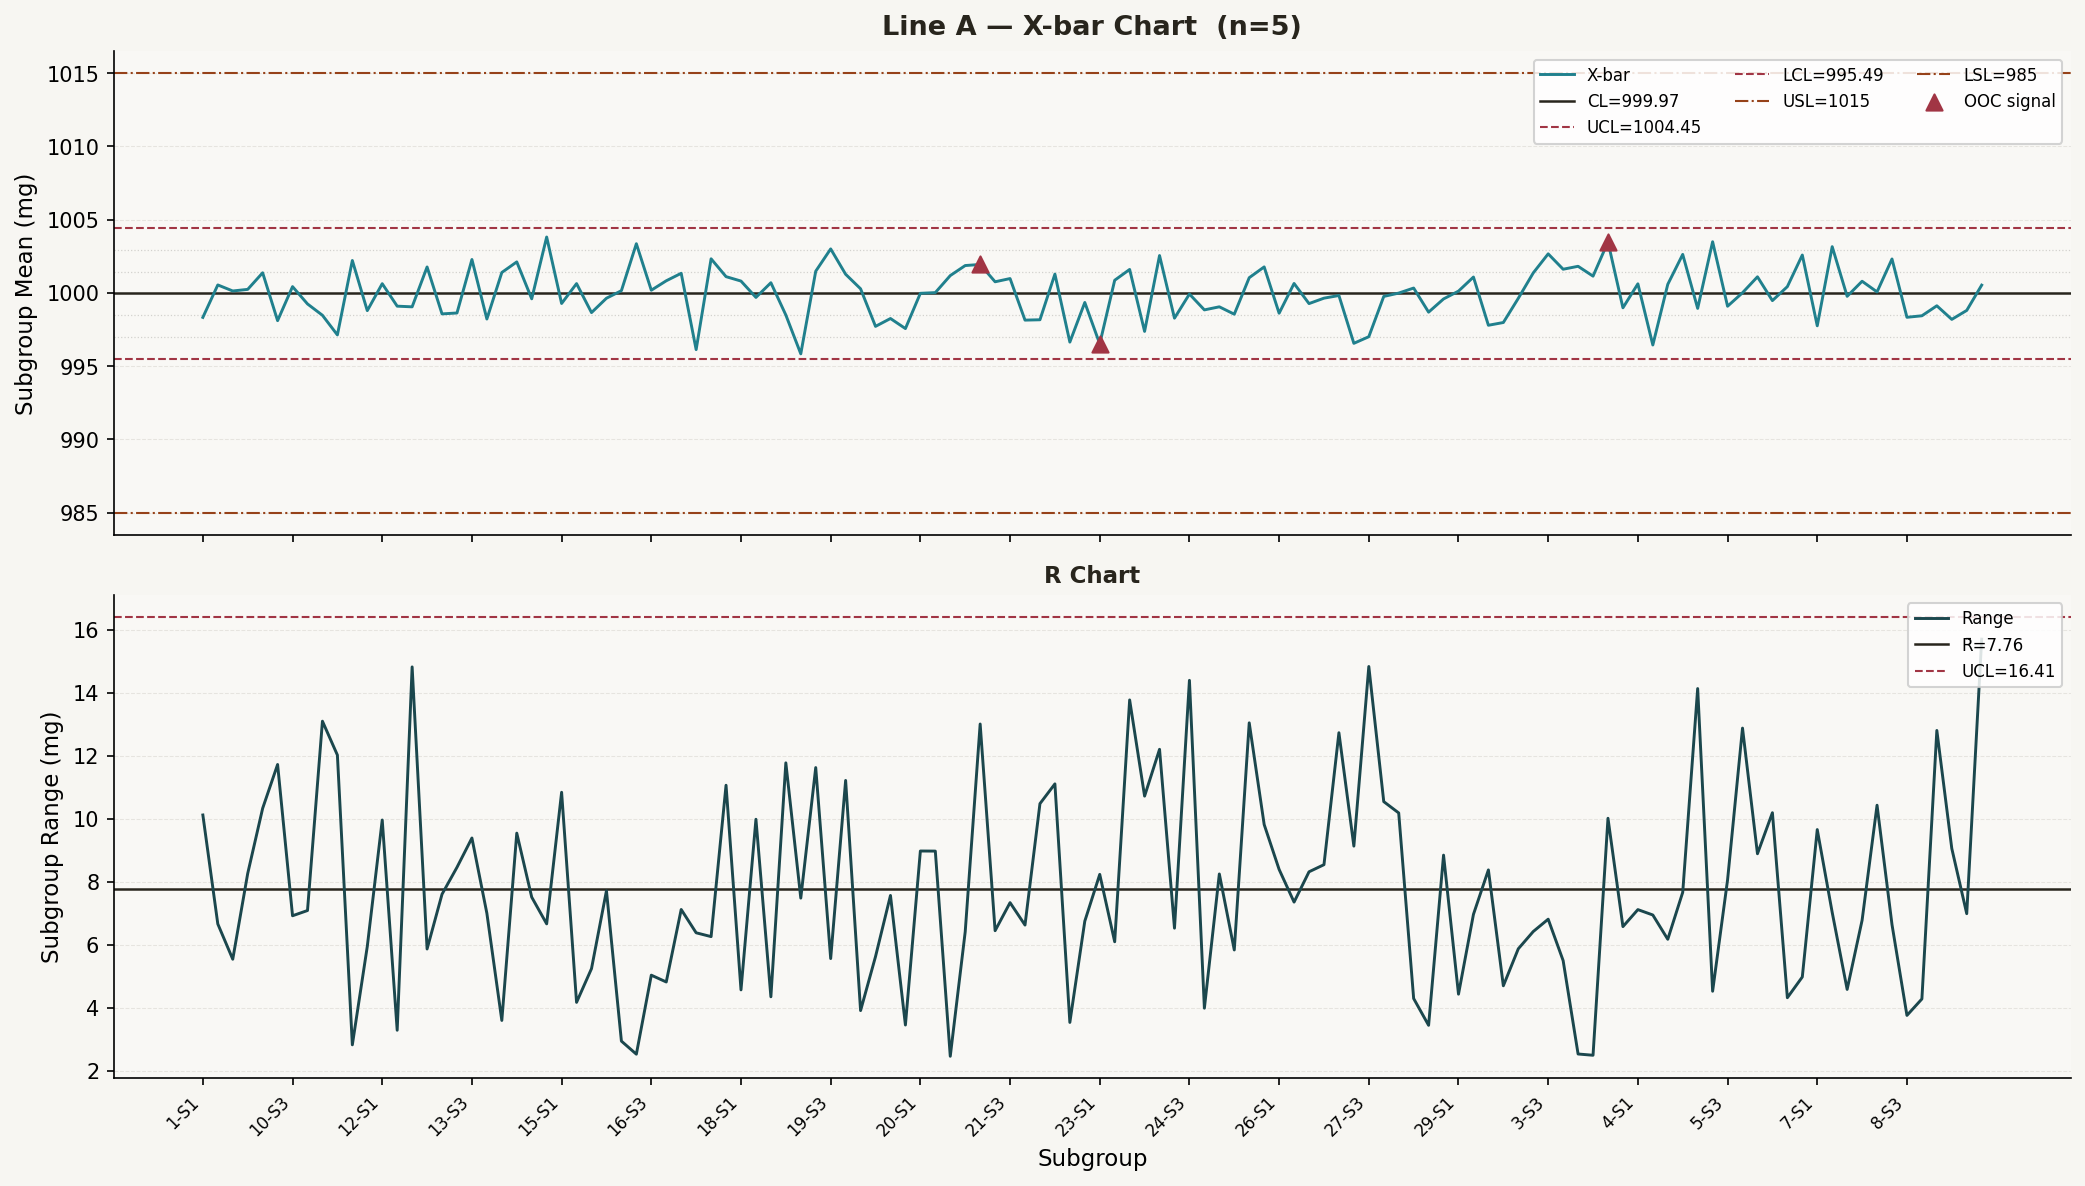
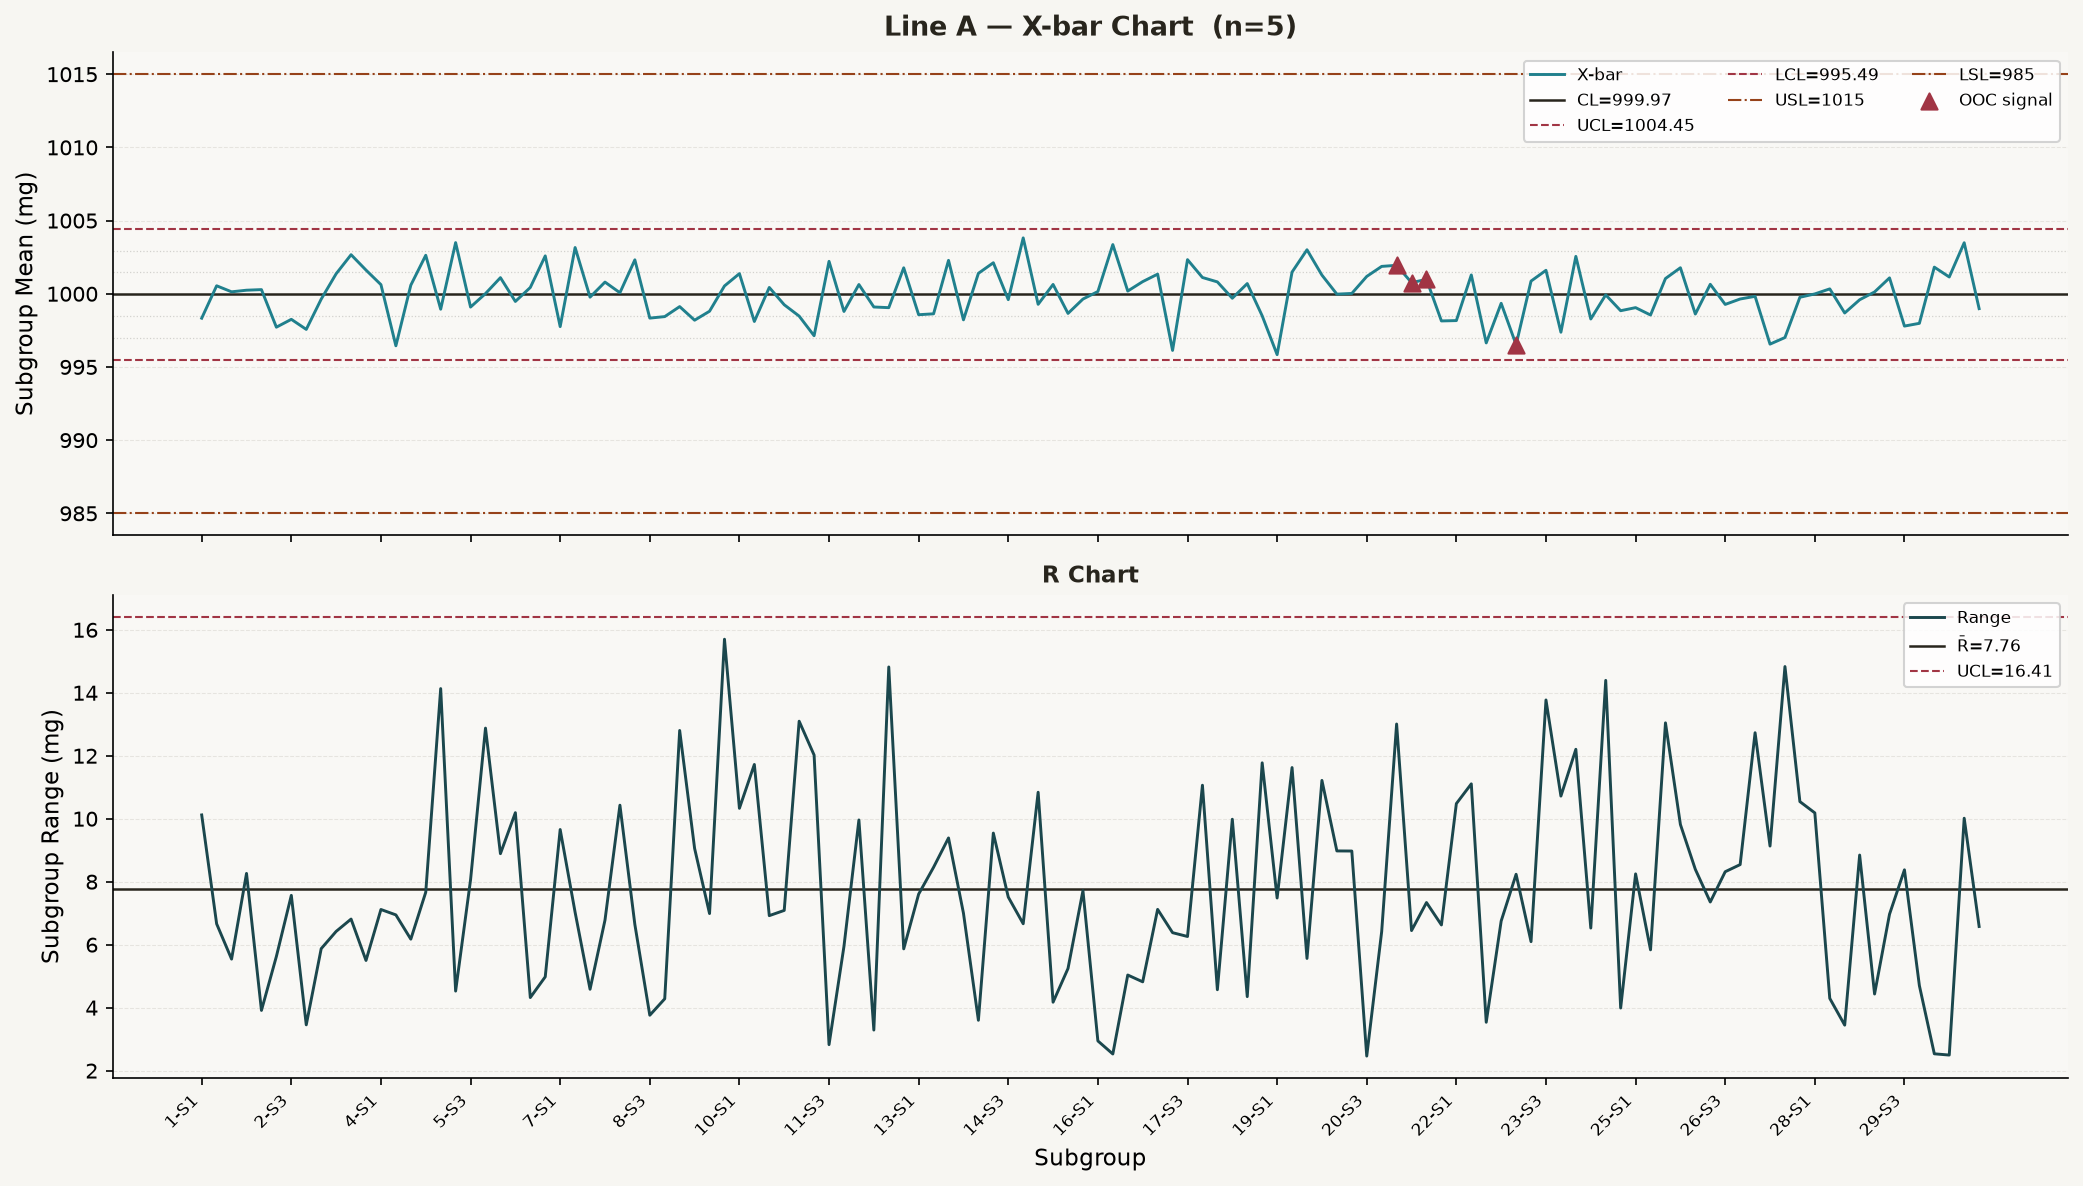
Fix SPC time ordering and run-pattern detection (#2)

diff --git a/src/report.py b/src/report.py
@@ -240,6 +240,13 @@ def write_text_report(
     oos_rate = df["out_of_spec"].mean()
     n_oos = df["out_of_spec"].sum()
     n_total = len(df)
+    defect_counts = df.loc[df["out_of_spec"], "defect_cause"].value_counts()
+    if defect_counts.empty:
+        pareto_note = "No classified out-of-spec observations are available for Pareto review."
+    else:
+        count = int(defect_counts.max())
+        leaders = ", ".join(defect_counts[defect_counts == count].index)
+        pareto_note = f"Review the most frequent assigned defect causes: {leaders} ({count} of {n_oos} each)."
 
     lines_text = []
     for line_name, row in cap_by_line.iterrows():
@@ -289,14 +296,14 @@ def write_text_report(
 
       Interpretation:
         Cp  ≥ 1.33  → Good potential capability         : {'✓ PASS' if cap_overall.cp >= 1.33 else '✗ FAIL'}
-        Cpk ≥ 1.33  → Process centered and capable      : {'✓ PASS' if cap_overall.cpk >= 1.33 else '✗ FAIL'}
-        Ppk ≥ 1.33  → Long-term performance adequate     : {'✓ PASS' if cap_overall.ppk >= 1.33 else '✗ FAIL'}
+        Cpk ≥ 1.33  → Short-term index threshold       : {'✓ PASS' if cap_overall.cpk >= 1.33 else '✗ FAIL'}
+        Ppk ≥ 1.33  → Long-term index threshold        : {'✓ PASS' if cap_overall.ppk >= 1.33 else '✗ FAIL'}
 
     ─────────────────────────── CAPABILITY BY LINE ───────────────────────────────
 {chr(10).join(lines_text)}
 
     ─────────────────────────── OUT-OF-CONTROL SIGNALS ─────────────────────────
-    Western Electric rules applied to X-bar chart (all lines combined):
+    Rules applied to X-bar chart (all lines combined, in production order):
 """)
 
     total_violations = 0
@@ -307,19 +314,19 @@ def write_text_report(
 
     report_text += f"\n    Total out-of-control signals detected : {total_violations}\n"
 
-    report_text += textwrap.dedent("""
+    report_text += textwrap.dedent(f"""
     ─────────────────────────── CORRECTIVE ACTIONS ───────────────────────────────
-    Quality Event (Line B, Days 18-23):
-      Root cause   : Progressive mean shift (+8 mg) with increased variability
-      Likely cause : Tobacco blend variation / hopper feed rate inconsistency
-      Action taken : Hopper recalibration, blend adjustment (Day 23)
-      Result       : Process returned to control by Day 24
+    Simulated event (Line B, Days 18-23):
+      Days 18–22   : The generator increases the mean by up to 8 mg and increases spread.
+      Day 23       : The generator models partial recovery.
+      Day 24 onward: The generator restores the original process parameters.
+      Full-period capability indices include this unstable interval.
 
     ─────────────────────────── RECOMMENDED ACTIONS ──────────────────────────────
     1. Continue X-bar & R monitoring on 5-sample subgroups each shift
-    2. Investigate Hopper Feed Rate (30% of defects — top Pareto cause)
+    2. {pareto_note}
     3. Implement SPC alert automation to trigger immediate corrective action
-    4. Target Cpk ≥ 1.67 (Six Sigma level) through process centering
+    4. Evaluate capability for a stable period on each line before drawing conclusions.
     5. Review D3/D4 constants if subgroup size changes
 
     ─────────────────────────── CHART INVENTORY ──────────────────────────────────
@@ -358,6 +365,7 @@ def main(regen: bool = False):
         print("[report] Generating factory data...")
         df = generate_data(save=True)
 
+    df = df.sort_values(["day", "shift", "machine_line", "sample_id"])
     print(f"[report] {len(df)} observations loaded. Lines: {df['machine_line'].unique().tolist()}")
 
     # 2. Process capability — all lines
@@ -380,7 +388,7 @@ def main(regen: bool = False):
         overall_chart.xbar, overall_chart.xbar_cl,
         overall_chart.xbar_ucl, overall_chart.xbar_lcl,
     )
-    viol_df = violations_to_dataframe(violations_summary)
+    viol_df = violations_to_dataframe(violations_summary, overall_chart.subgroup_labels)
     if not viol_df.empty:
         print(f"\n[report] {len(viol_df)} out-of-control signals detected:")
         print(viol_df.head(20).to_string())

diff --git a/src/rules.py b/src/rules.py
@@ -3,9 +3,8 @@ rules.py
 ========
 Western Electric / Nelson Rules for Out-of-Control Detection
 
-Implements the eight Western Electric rules as defined in:
-  Western Electric Company (1956). Statistical Quality Control Handbook.
-  Also known as the WECO rules and aligned with AIAG SPC Manual (2nd ed.).
+Implements the four classic Western Electric rules and four additional run-pattern
+checks. The rule numbers used by this toolkit are listed below.
 
 Rule definitions (applied to X-bar chart subgroup means):
   Rule 1: 1 point beyond ±3σ (Zone A)
@@ -124,21 +123,20 @@ def rule7(values: np.ndarray, center: float, sigma: float) -> List[int]:
     for i in range(13, n):
         window = values[i - 13 : i + 1]
         diffs = np.diff(window)
-        alternating = all(
-            (diffs[j] > 0) != (diffs[j + 1] > 0) for j in range(len(diffs) - 1)
-        )
+        directions = np.sign(diffs)
+        alternating = np.all(directions[1:] * directions[:-1] < 0)
         if alternating:
             violations.append(i)
     return violations
 
 
 def rule8(values: np.ndarray, center: float, sigma: float) -> List[int]:
-    """8 consecutive points beyond ±1σ on either side (mixture pattern)."""
+    """8 consecutive points outside ±1σ with points on both sides."""
     violations = []
     n = len(values)
     for i in range(7, n):
         window = values[i - 7 : i + 1]
-        if all(abs(v - center) > sigma for v in window):
+        if all(abs(v - center) > sigma for v in window) and min(window) < center < max(window):
             violations.append(i)
     return violations
 

diff --git a/tests/test_rules.py b/tests/test_rules.py
@@ -289,3 +289,28 @@ class TestSPCChartsConstants:
         from src.spc_charts import get_constants
         with pytest.raises(ValueError):
             get_constants(11)
+
+
+def test_rule6_checks_all_fifteen_points():
+    values = np.full(15, CENTER)
+    assert rule6(values, CENTER, SIGMA) == [14]
+    values[4] = CENTER + SIGMA
+    assert not rule6(values, CENTER, SIGMA)
+
+
+def test_rule7_rejects_ties_in_an_alternating_sequence():
+    values = np.tile([CENTER, CENTER + SIGMA], 7)
+    assert rule7(values, CENTER, SIGMA) == [13]
+    differences = np.diff(values)
+    differences[1] = 0
+    tied_values = np.r_[CENTER, CENTER + np.cumsum(differences)]
+    assert not rule7(tied_values, CENTER, SIGMA)
+
+
+def test_rule8_requires_points_on_both_sides():
+    values = np.full(8, CENTER + 2 * SIGMA)
+    assert not rule8(values, CENTER, SIGMA)
+    values[3] = CENTER - 2 * SIGMA
+    assert rule8(values, CENTER, SIGMA) == [7]
+    values[5] = CENTER
+    assert not rule8(values, CENTER, SIGMA)

diff --git a/src/spc_charts.py b/src/spc_charts.py
@@ -106,7 +106,7 @@ def build_control_chart(
     value_col : str
         Column of individual measurements.
     group_col : str
-        Column identifying subgroup membership.
+        Column identifying subgroup membership. Supply subgroups in observation order.
     n : int
         Subgroup size.
 
@@ -117,7 +117,10 @@ def build_control_chart(
     consts = get_constants(n)
     A2, D3, D4, d2 = consts["A2"], consts["D3"], consts["D4"], consts["d2"]
 
-    grouped = df.groupby(group_col, sort=True)[value_col]
+    # Rule windows must follow production order, even when labels are strings.
+    grouped = df.groupby(group_col, sort=False)[value_col]
+    if not grouped.count().eq(n).all():
+        raise ValueError(f"Each subgroup must contain {n} measurements for these control limits.")
     xbar = grouped.mean().values
     ranges = (grouped.max() - grouped.min()).values
     labels = grouped.mean().index.tolist()

diff --git a/tests/test_chart_sequence.py b/tests/test_chart_sequence.py
@@ -1,0 +1,20 @@
+import pandas as pd
+import pytest
+
+from src.spc_charts import build_control_chart
+
+
+def test_rules_receive_subgroups_in_observation_order():
+    frame = pd.DataFrame({
+        "day": ["1-S1", "2-S1", "10-S1"] * 2,
+        "weight": [1, 3, 5, 2, 4, 6],
+    })
+    chart = build_control_chart(frame, value_col="weight", group_col="day", n=2)
+    assert chart.subgroup_labels == ["1-S1", "2-S1", "10-S1"]
+    assert chart.xbar.tolist() == [1.5, 3.5, 5.5]
+
+
+def test_limits_require_the_actual_subgroup_size():
+    frame = pd.DataFrame({"day": [1, 1, 2], "weight": [1, 2, 3]})
+    with pytest.raises(ValueError, match="2 measurements"):
+        build_control_chart(frame, value_col="weight", group_col="day", n=2)

diff --git a/README.md b/README.md
@@ -1,7 +1,7 @@
 # Process Control & SPC Toolkit
 
 [![Python](https://img.shields.io/badge/Python-3.10%2B-3776AB?style=flat-square&logo=python&logoColor=white)](https://python.org)
-[![Tests](https://img.shields.io/badge/Tests-50%20passed-437A22?style=flat-square&logo=pytest&logoColor=white)](tests/)
+[![Tests](https://img.shields.io/badge/Tests-55%20passed-437A22?style=flat-square&logo=pytest&logoColor=white)](tests/)
 [![Six Sigma](https://img.shields.io/badge/Six%20Sigma-Green%20Belt%20Tools-20808D?style=flat-square)](https://asq.org/cert/six-sigma-green-belt)
 [![AIAG SPC](https://img.shields.io/badge/Standard-AIAG%20SPC%20Manual-1B474D?style=flat-square)](https://www.aiag.org)
 [![License: MIT](https://img.shields.io/badge/License-MIT-D4D1CA?style=flat-square)](LICENSE)
@@ -67,9 +67,9 @@ Ppk = min((USL − mean) / (3 × σ_overall), (mean − LSL) / (3 × σ_overall)
 | Index | Value  | Interpretation                        |
 |-------|--------|---------------------------------------|
 | Cp    | 1.4559 | Good potential capability (> 1.33)    |
-| **Cpk**   | **1.4453** | **Process centered and capable**      |
+| **Cpk**   | **1.4453** | **Full-period short-term index, including the simulated shift**      |
 | Pp    | 1.3338 | Long-term performance acceptable      |
-| Ppk   | 1.3241 | Long-term performance acceptable      |
+| Ppk   | 1.3241 | Below the 1.33 comparison threshold      |
 | σ level | 4.34σ | Above 4σ threshold                  |
 
 ### By Machine Line
@@ -86,7 +86,7 @@ Ppk = min((USL − mean) / (3 × σ_overall), (mean − LSL) / (3 × σ_overall)
 
 ## Western Electric Rules Implemented
 
-The WECO rules detect non-random patterns in control charts beyond simple 3σ exceedances. All eight rules are implemented in [`src/rules.py`](src/rules.py).
+The WECO rules detect non-random patterns in control charts beyond simple 3σ exceedances. The four classic Western Electric rules and four additional run-pattern rules are implemented in [`src/rules.py`](src/rules.py).
 
 | Rule | Trigger                                        | Purpose                            |
 |------|------------------------------------------------|------------------------------------|
@@ -101,7 +101,7 @@ The WECO rules detect non-random patterns in control charts beyond simple 3σ ex
 
 Rules 1–5 are applied by default in the report. All eight are unit tested.
 
-**35 out-of-control signals** were detected across all lines — concentrated on Line B during the quality event window (subgroups 97–188, corresponding to days 18–23 shifts).
+In production order the combined chart records **35 rule hits across 32 distinct subgroups**. On the separate Line B chart, **11 of 20 subgroups** trigger at least one rule during the simulated drift on days 18–22. Multiple rules can flag the same subgroup. The capability figures above summarize the whole simulation, including its unstable period.
 
 ---
 
@@ -117,8 +117,9 @@ process-control-spc/
 │   ├── rules.py                   # Western Electric rules 1–8
 │   └── report.py                  # End-to-end runner → charts + report
 ├── tests/
-│   ├── test_capability.py         # 17 unit tests for Cp/Cpk math
-│   └── test_rules.py              # 33 unit tests for WECO rules + constants
+│   ├── test_capability.py         # Capability calculations
+│   ├── test_rules.py              # Rule and constant tests
+│   └── test_chart_sequence.py     # Time order and subgroup-size checks
 ├── data/
 │   └── factory_measurements.csv  # Generated CSV (600 obs × 3 lines)
 ├── reports/
@@ -177,7 +178,7 @@ python src/report.py --regen
 python -m pytest tests/ -v
 ```
 
-All 50 tests pass. Tests verify:
+All 55 tests pass. Tests verify:
 - SPC constants A2=0.577, D3=0, D4=2.114, d2=2.326 for n=5
 - Cpk formula correctness against hand-calculated values
 - Each Western Electric rule triggers and does not trigger on synthetic edge cases
@@ -203,7 +204,8 @@ from src.capability import compute_capability
 from src.spc_charts import build_control_chart, plot_xbar_r
 
 df = pd.read_csv("your_data.csv")
-df["subgroup_id"] = df["day"].astype(str) + "-" + df["shift"].astype(str)
+df = df.sort_values(["day", "shift", "machine_line", "sample_id"])
+df["subgroup_id"] = df.groupby(["day", "shift", "machine_line"], sort=False).ngroup()
 
 chart = build_control_chart(df, value_col="weight_mg", group_col="subgroup_id", n=5)
 fig = plot_xbar_r(chart, title_prefix="My Process", usl=1015, lsl=985)
@@ -219,12 +221,12 @@ print(f"Cpk = {cap.cpk:.4f}")
 | Competency | Implementation |
 |---|---|
 | **SPC chart construction** | X-bar & R with AIAG-correct A2/D3/D4/d2 constants |
-| **Out-of-control detection** | All 8 Western Electric rules, unit tested |
+| **Out-of-control detection** | Four Western Electric rules and four additional run-pattern checks, unit tested |
 | **Process capability** | Cp, Cpk (short-term), Pp, Ppk (long-term) with proper σ_within vs σ_overall |
 | **Root cause analysis** | Pareto chart of defect causes with 80% line |
 | **Quality event storytelling** | Line B drift Days 18–22, corrective action Day 23 |
 | **Control plan thinking** | Auto-generated control plan summary with recommendations |
-| **Software engineering** | Pure Python, typed functions, docstrings, 50 unit tests, zero-error CI |
+| **Software engineering** | Pure Python, typed functions, docstrings, 55 automated tests |
 | **Standards alignment** | AIAG SPC Manual 2nd ed., Montgomery SQC 8th ed., ASQ CSSGB BoK |
 
 ---
